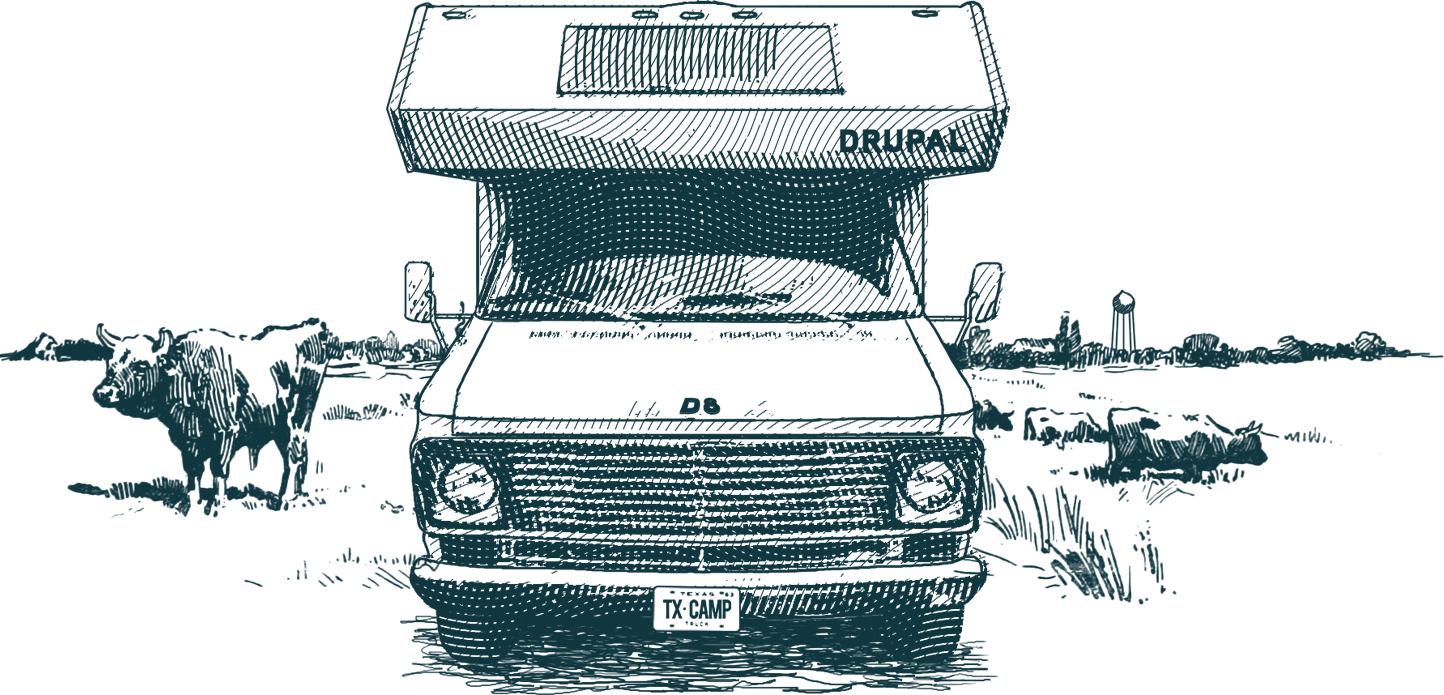
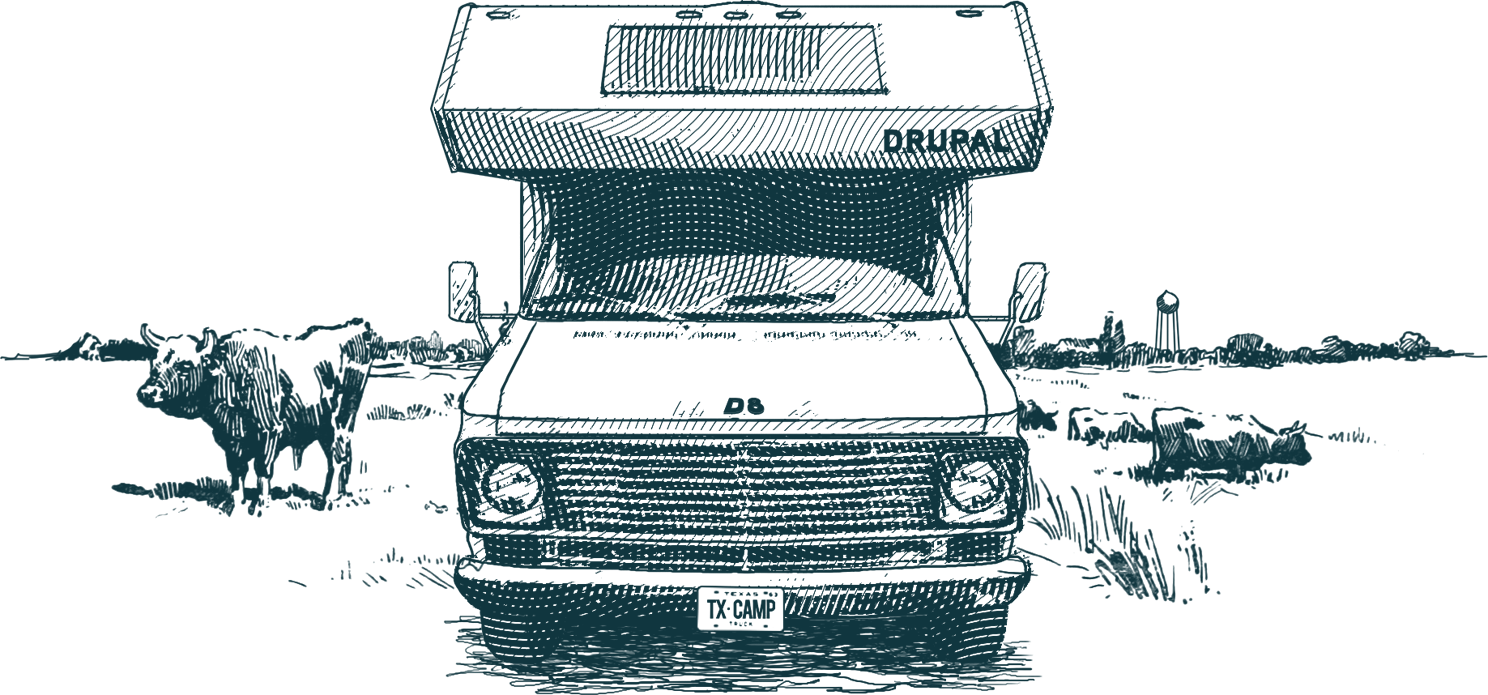
TXC-41: Responsive changes

Changed region(s): [[0.0, 0.0, 0.9661, 1.0]]

diff --git a/frontend/app/components/Header/index.js b/frontend/app/components/Header/index.js
@@ -2,38 +2,40 @@ import React from 'react';
 import styles from './styles.css';
 import twitter from '../../shared/images/twitter.png';
 import facebook from '../../shared/images/facebook.png';
-import logo from '../../shared/images/texas-camp-logo.png';
+import logo from '../../shared/images/texas-camp-logo.svg';
 import backgroundImage from '../../shared/images/truck.png';
 
 function Header() {
   return (
-    <div className={styles.header}>
-      <div className={styles.backgroundImageWrapper}>
-        <img src={backgroundImage} alt="" />
-      </div>
-      <section className={styles.info}>
-        <div>
-          May 31-June 2, 2018<span className={styles.separator}>
-            &nbsp;&nbsp;&middot;&nbsp;&nbsp;
-          </span>Austin, TX
+    <div className={styles.headerWrapper}>
+      <div className={styles.header}>
+        <div className={styles.backgroundImageWrapper}>
+          <img src={backgroundImage} alt="" />
         </div>
-        <div>Norris Conference Center</div>
-        <div>
-          <span className={styles.social}>
-            <Twitter />
-          </span>
-          <span className={styles.separator}>
-            &nbsp;&nbsp;&middot;&nbsp;&nbsp;
-          </span>
-          <span className={styles.social}>
-            <Facebook />
-          </span>
+        <section className={styles.info}>
+          <div>
+            May 31-June 2, 2018<span className={styles.separator}>
+              &nbsp;&nbsp;&middot;&nbsp;&nbsp;
+            </span>Austin, TX
+          </div>
+          <div>Norris Conference Center</div>
+          <div>
+            <span className={styles.social}>
+              <Twitter />
+            </span>
+            <span className={styles.separator}>
+              &nbsp;&nbsp;&middot;&nbsp;&nbsp;
+            </span>
+            <span className={styles.social}>
+              <Facebook />
+            </span>
+          </div>
+        </section>
+        <div className={styles.logo}>
+          <a href="/">
+            <img src={logo} alt="Texas Camp 2018" />
+          </a>
         </div>
-      </section>
-      <div className={styles.logo}>
-        <a href="/">
-          <img src={logo} alt="Texas Camp 2018" />
-        </a>
       </div>
     </div>
   );

diff --git a/frontend/app/components/Header/styles.css b/frontend/app/components/Header/styles.css
@@ -1,24 +1,45 @@
-.header {
+.headerWrapper {
   @media $desktop {
-    background: $orange;
-    border-right: 2px solid;
-    height: 100%;
-    overflow: hidden;
-    position: fixed;
-    top: 0;
-    width: 50%;
+    min-width: 330px;
   }
-  .backgroundImageWrapper {
-    display: none;
+  @media $wide {
+    min-width: 40%;
+  }
+  @media $extraWide {
+    min-width: 50%;
+  }
+  .header {
     @media $desktop {
-      display: block;
-      left: 50%;
-      margin-top: 315px;
-      position: absolute;
-      img {
-        left: -50%;
-        position: relative;
-        width: 720px;
+      background: $orange;
+      border-right: 2px solid;
+      height: 100%;
+      min-width: 330px;
+      max-width: 50%;
+      overflow: hidden;
+      position: fixed;
+      top: 0;
+    }
+    @media $wide {
+      min-width: 40%;
+    }
+    @media $extraWide {
+      min-width: 50%;
+    }
+    .backgroundImageWrapper {
+      display: none;
+      @media $desktop {
+        display: block;
+        left: 50%;
+        margin-top: 295px;
+        position: absolute;
+        img {
+          left: -50%;
+          position: relative;
+          width: 720px;
+        }
+      }
+      @media $wide {
+        margin-top: 315px;
       }
     }
   }
@@ -53,6 +74,7 @@
   }
 }
 .logo {
+  position: relative;
   @media $smallOnly {
     margin: -8px 0 0 8px;
     text-align: left;
@@ -69,6 +91,13 @@
     }
   }
   @media $desktop {
+    text-align: center;
+    img {
+      margin-top: 20px;
+      width: 275px;
+    }
+  }
+  @media $wide {
     text-align: center;
     img {
       margin-top: 30px;

diff --git a/frontend/app/shared/css/variables.js b/frontend/app/shared/css/variables.js
@@ -1,7 +1,9 @@
 // Breakpoints in px
 const BP_XS = 400;
 const BP_TABLET = 768;
-const BP_DESKTOP = 1400;
+const BP_DESKTOP = 960;
+const BP_WIDE = 1200;
+const BP_EXTRAWIDE = 1500;
 
 module.exports = {
   almostWhite: '#f2ece6',
@@ -21,4 +23,6 @@ module.exports = {
     16}em) and (max-width: ${(BP_DESKTOP - 1) / 16}em)`,
   tabletDown: `all and (max-width: ${(BP_DESKTOP - 1) / 16}em)`,
   desktop: `all and (min-width: ${BP_DESKTOP / 16}em)`,
+  wide: `all and (min-width: ${BP_WIDE / 16}em)`,
+  extraWide: `all and (min-width: ${BP_EXTRAWIDE / 16}em)`,
 };

diff --git a/frontend/app/components/SessionIndividual/styles.css b/frontend/app/components/SessionIndividual/styles.css
@@ -1,8 +1,12 @@
+.contentWrapper {
+  @media $desktop {
+    display: flex;
+  }
+}
 .content {
   composes: contentWrapper from '../../shared/css/global.css';
   @media $desktop {
-    margin-left: 50%;
-    width: 50%;
+    min-width: 50%;
   }
 }
 .title {

diff --git a/frontend/app/screens/Sessions/styles.css b/frontend/app/screens/Sessions/styles.css
@@ -1,9 +1,12 @@
-
+.contentWrapper {
+  @media $desktop {
+    display: flex;
+  }
+}
 .content {
   composes: contentWrapper from '../../shared/css/global.css';
   @media $desktop {
-    margin-left: 50%;
-    width: 50%;
+    min-width: 50%;
   }
 }
 
